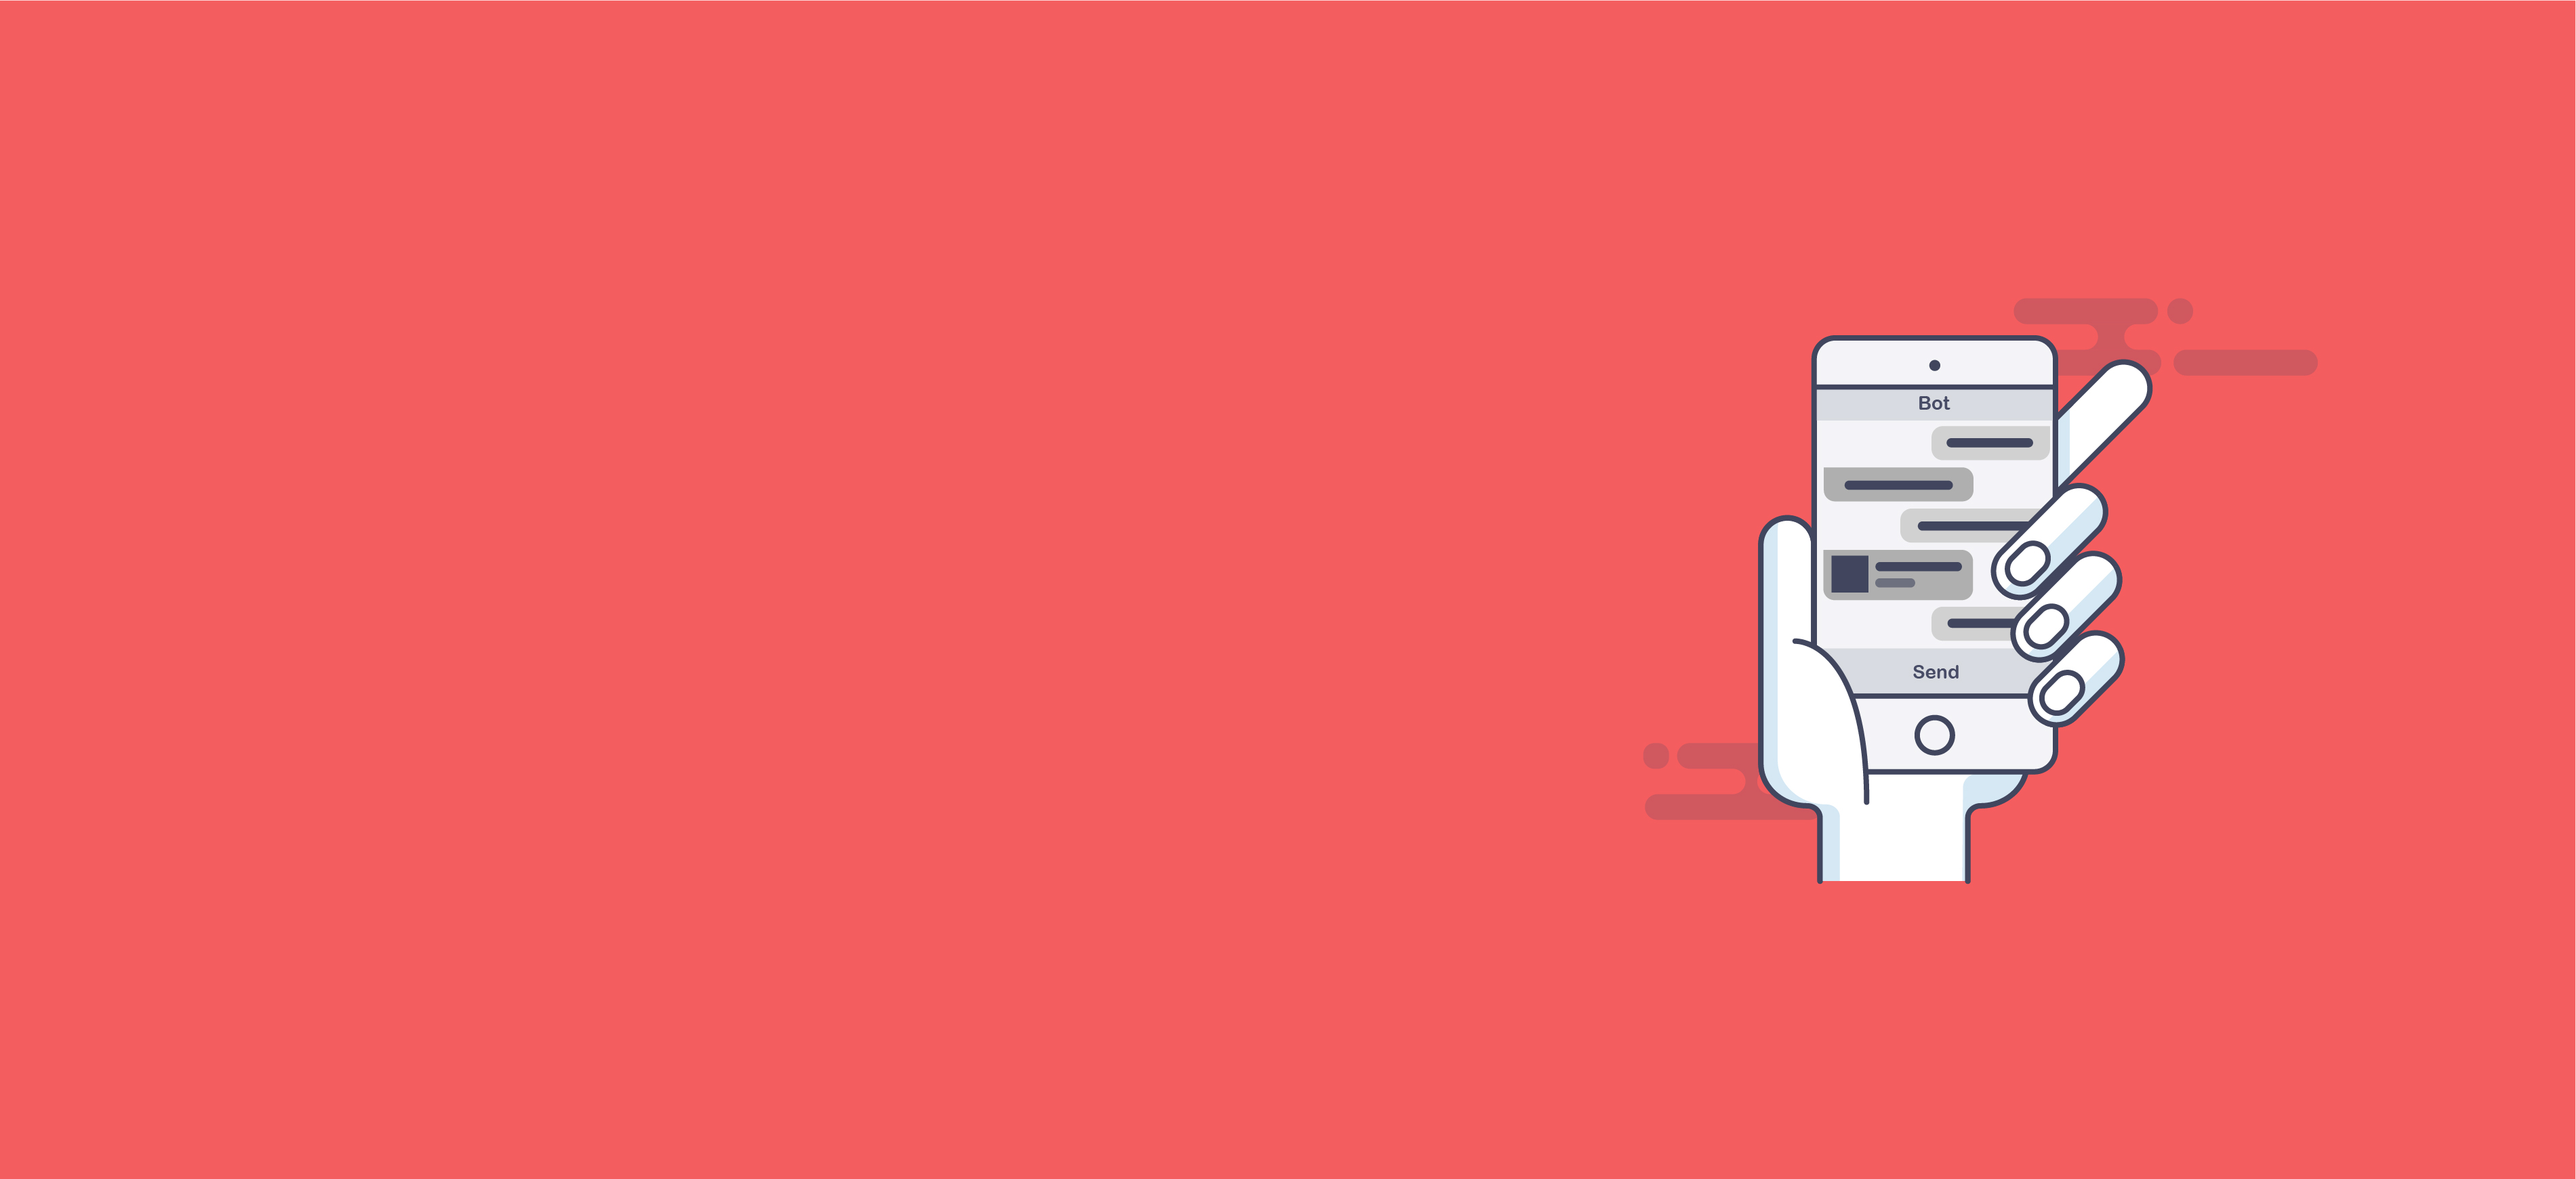
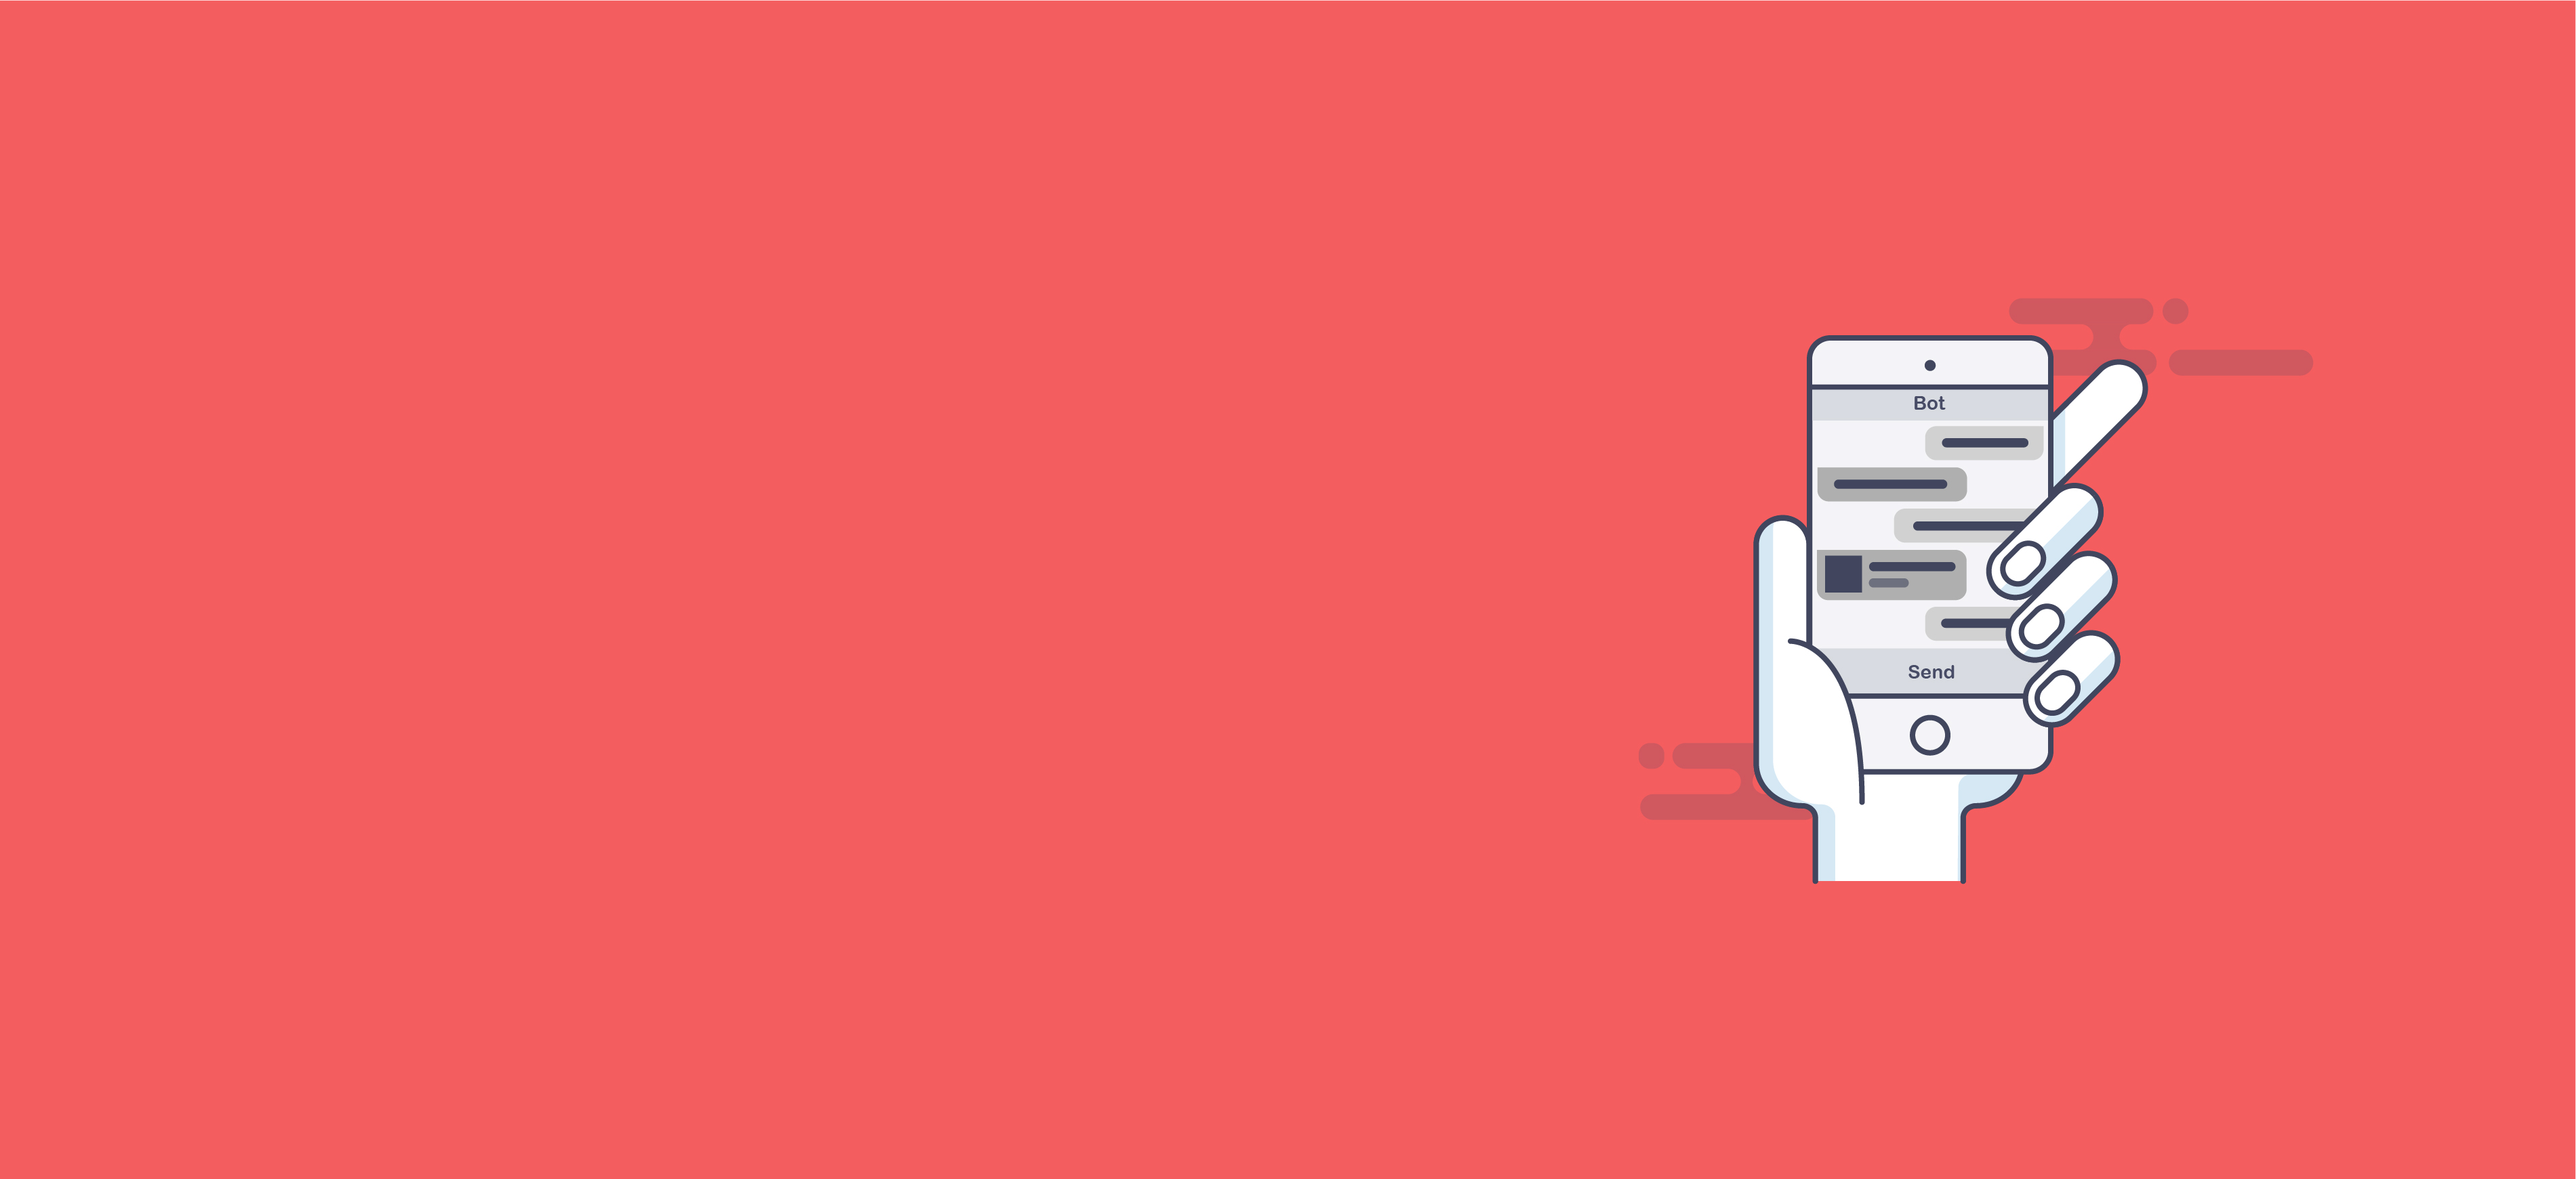
修改chatbot图片

Changed region(s): [[0.683, 0.2791, 0.8382, 0.7444], [0.7451, 0.6824, 0.7761, 0.7444], [0.6209, 0.6203, 0.6519, 0.6513]]

diff --git a/portfolio/index.html b/portfolio/index.html
@@ -84,7 +84,7 @@ layout: default
 						<div class="cbp_tmlabel">
 							<h2>当运营设计遇上ChatBot —— 移动端运营设计</h2>
 							<time>2017.1</time>
-							<img src="images/work-bot.jpg">
+							<img src="images/work-chatbot.jpg">
 							<ul>
 								<li>
 									在该项目中，引导用户留资的方式没有采用常规表单的方式，而是通过对话式界面的方式引导用户进行。在新的设计模式的基础上，希望在转化率和体验上找到一个平衡点。
